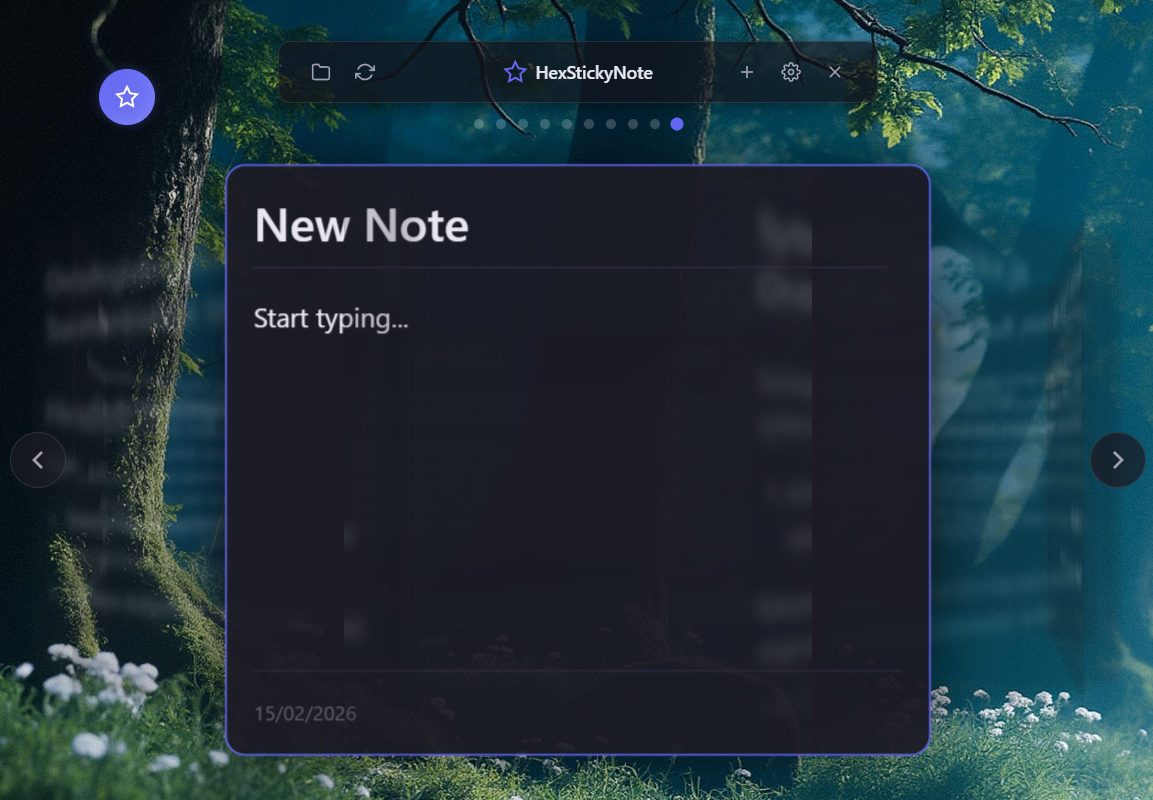
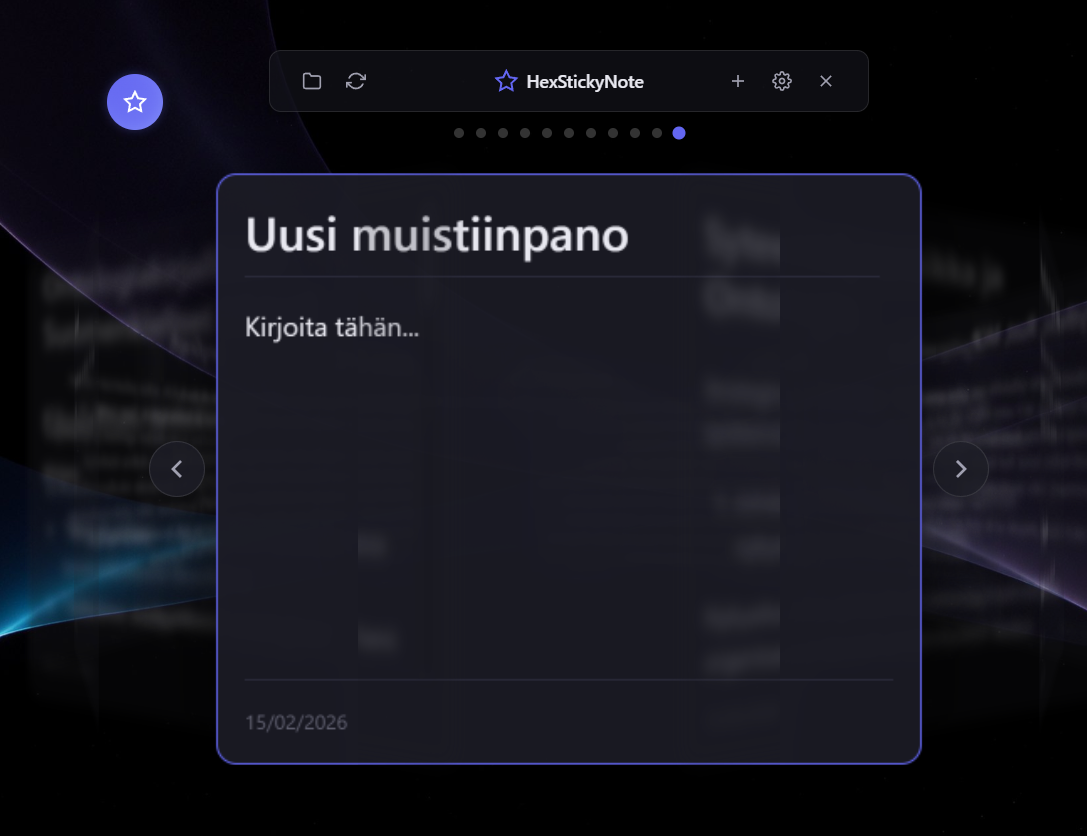
minor fixex

diff --git a/src/lib/stores/settingsStore.ts b/src/lib/stores/settingsStore.ts
@@ -24,6 +24,7 @@ export interface Provider {
 export interface AiStreamChunk {
   chunk: string;
   done: boolean;
+  gpu_info?: string;
 }
 
 interface SettingsState {
@@ -32,6 +33,7 @@ interface SettingsState {
   isLoading: boolean;
   isStreaming: boolean;
   error: string | null;
+  currentGpuInfo: string | null;
 }
 
 // ============================================================================
@@ -44,7 +46,8 @@ function createSettingsStore() {
     activeProviderId: null,
     isLoading: false,
     isStreaming: false,
-    error: null
+    error: null,
+    currentGpuInfo: null
   });
 
   let streamUnlisten: UnlistenFn | null = null;
@@ -144,11 +147,15 @@ function createSettingsStore() {
         streamUnlisten = null;
       }
 
-      update(s => ({ ...s, isStreaming: true, error: null }));
+      update(s => ({ ...s, isStreaming: true, error: null, currentGpuInfo: null }));
 
       try {
         // Set up event listener for streaming chunks
         streamUnlisten = await listen<AiStreamChunk>('ai-stream-chunk', (event) => {
+          if (event.payload.gpu_info) {
+            update(s => ({ ...s, currentGpuInfo: event.payload.gpu_info || null }));
+          }
+
           if (event.payload.done) {
             update(s => ({ ...s, isStreaming: false }));
             onDone();

diff --git a/src/lib/components/AiPromptBar.svelte b/src/lib/components/AiPromptBar.svelte
@@ -91,6 +91,16 @@
     </button>
   </div>
 
+  {#if isStreaming && $settingsStore.currentGpuInfo}
+    <div class="gpu-indicator">
+      <svg width="12" height="12" viewBox="0 0 24 24" fill="none" stroke="currentColor" stroke-width="2">
+        <rect x="2" y="2" width="20" height="20" rx="2" ry="2"/>
+        <path d="M6 12h12M12 6v12"/>
+      </svg>
+      <span>Using {$settingsStore.currentGpuInfo}</span>
+    </div>
+  {/if}
+
   {#if $settingsStore.error}
     <p class="prompt-error">{$settingsStore.error}</p>
   {/if}
@@ -181,5 +191,15 @@
     font-size: 0.75rem;
     color: #ef4444;
     margin: 0;
+  }
+
+  .gpu-indicator {
+    display: flex;
+    align-items: center;
+    gap: 0.375rem;
+    font-size: 0.7rem;
+    color: var(--accent-primary);
+    padding: 0 0.25rem;
+    opacity: 0.8;
   }
 </style>

diff --git a/src/lib/components/Settings.svelte b/src/lib/components/Settings.svelte
@@ -409,11 +409,9 @@
               class="styled-select"
             >
               <option value="cpu">None (CPU only)</option>
-              <option value="vulkan">Vulkan (Universal GPU)</option>
-              <option value="cuda">CUDA (NVIDIA only)</option>
-              <option value="rocm">ROCm (AMD only)</option>
+              <option value="vulkan">Enabled (GPU Acceleration)</option>
             </select>
-            <p class="config-hint">Requires a compatible GPU and drivers. Vulkan works on most modern hardware.</p>
+            <p class="config-hint">Requires a compatible GPU and drivers. Uses Vulkan for maximum compatibility.</p>
           </div>
         </div>
 

diff --git a/src/lib/components/Hud.svelte b/src/lib/components/Hud.svelte
@@ -26,7 +26,7 @@
   }
 
   async function handleAddCard() {
-    const card = await cardStore.createCard('# New Note\n\nStart typing...');
+    const card = await cardStore.createCard('# Uusi muistiinpano\n\nKirjoita tähän...');
     if (card) {
       cardStore.enterEditMode(card.id);
     }

diff --git a/src/lib/components/Card.svelte b/src/lib/components/Card.svelte
@@ -16,7 +16,7 @@
   // Props
   export let card: Card;
 
-  const DEFAULT_TEXT = '# New Note\n\nStart typing...';
+  const DEFAULT_TEXT = '# Uusi muistiinpano\n\nKirjoita tähän...';
 
   // Local state
   let editorContent = card.content;

diff --git a/src-tauri/src/card_manager.rs b/src-tauri/src/card_manager.rs
@@ -56,12 +56,18 @@ pub fn get_cards_directory() -> Result<PathBuf, String> {
     Ok(cards_dir)
 }
 
-/// Extract title from markdown content (first # heading)
+/// Extract title from markdown content (first # heading or first meaningful line)
 fn extract_title_from_content(content: &str) -> String {
+    // 1. Look for first h1 (# Title)
     for line in content.lines() {
         let trimmed = line.trim();
-        if trimmed.starts_with('#') {
-            // Remove leading # and whitespace
+        if trimmed.starts_with("# ") {
+            let title = trimmed.trim_start_matches("# ").trim();
+            if !title.is_empty() {
+                return title.to_string();
+            }
+        } else if trimmed.starts_with('#') {
+            // Handle #Title (no space)
             let title = trimmed.trim_start_matches('#').trim();
             if !title.is_empty() {
                 return title.to_string();
@@ -69,12 +75,21 @@ fn extract_title_from_content(content: &str) -> String {
         }
     }
 
-    // Fallback: use first non-empty line or "Untitled"
-    content
-        .lines()
-        .find(|l| !l.trim().is_empty())
-        .map(|l| l.trim().to_string())
-        .unwrap_or_else(|| "Untitled".to_string())
+    // 2. Fallback: use first non-empty line that doesn't look like an AI command or metadata
+    for line in content.lines() {
+        let trimmed = line.trim();
+        if !trimmed.is_empty() && !trimmed.starts_with("---") {
+            // Truncate long lines for title
+            let mut title = trimmed.to_string();
+            if title.len() > 50 {
+                title.truncate(50);
+                title.push_str("...");
+            }
+            return title;
+        }
+    }
+
+    "Muistiinpano".to_string()
 }
 
 /// Sanitize title for use as filename
@@ -246,7 +261,7 @@ fn load_card_from_file(path: &PathBuf) -> Result<Card, String> {
 }
 
 /// Save a single card to a markdown file
-fn save_card_to_file(card: &Card) -> Result<(), String> {
+fn save_card_to_file(card: &Card) -> Result<PathBuf, String> {
     let content = create_markdown_with_frontmatter(card)?;
 
     // Try to find existing file, or create new one based on content
@@ -262,7 +277,7 @@ fn save_card_to_file(card: &Card) -> Result<(), String> {
         .map_err(|e| format!("Failed to write card file: {}", e))?;
 
     log::debug!("Saved card {} to {:?}", card.id, file_path);
-    Ok(())
+    Ok(file_path)
 }
 
 /// Delete a card's markdown file
@@ -296,7 +311,7 @@ pub fn create_card(content: String) -> Result<Card, String> {
     cards.push(card.clone());
 
     // Save to markdown file
-    save_card_to_file(&card)?;
+    let _ = save_card_to_file(&card)?;
 
     Ok(card)
 }
@@ -321,16 +336,29 @@ pub fn update_card(id: &str, content: Option<String>) -> Result<Card, String> {
         existing.updated_at = chrono::Utc::now().timestamp();
         let updated = existing.clone();
 
-        // Save to markdown file (may get new filename if title changed)
-        save_card_to_file(&updated)?;
+        // Save to markdown file
+        // Note: save_card_to_file will find the OLD path if it exists
+        // so we need to handle the rename manually if the title changed
+        let current_path = if let Some(ref path) = old_path {
+            // It exists, let's write to it first
+            let file_content = create_markdown_with_frontmatter(&updated)?;
+            fs::write(path, file_content).map_err(|e| e.to_string())?;
+            path.clone()
+        } else {
+            save_card_to_file(&updated)?
+        };
 
-        // If filename changed (title changed), delete old file
+        // If title changed, rename the file
         if let Some(old_path) = old_path {
-            if let Ok(new_path) = get_card_file_path(id) {
-                if old_path != new_path && old_path.exists() {
-                    let _ = fs::remove_file(&old_path);
-                    log::debug!("Renamed card file from {:?} to {:?}", old_path, new_path);
-                }
+            let cards_dir = get_cards_directory()?;
+            let new_title = extract_title_from_content(&updated.content);
+            let sanitized = sanitize_filename(&new_title);
+            let new_filename = get_unique_filename(&cards_dir, &sanitized);
+            let new_path = cards_dir.join(new_filename);
+
+            if old_path != new_path {
+                fs::rename(&old_path, &new_path).map_err(|e| format!("Failed to rename file: {}", e))?;
+                log::debug!("Renamed card file from {:?} to {:?}", old_path, new_path);
             }
         }
 

diff --git a/src-tauri/src/ai_manager.rs b/src-tauri/src/ai_manager.rs
@@ -39,6 +39,7 @@ pub enum AiError {
 pub struct AiStreamChunk {
     pub chunk: String,
     pub done: bool,
+    pub gpu_info: Option<String>,
 }
 
 #[derive(Debug, Clone, Serialize, Deserialize)]
@@ -244,6 +245,7 @@ Only output long text if you are answering a general question without modifying 
                         app.emit("ai-stream-chunk", AiStreamChunk {
                             chunk: String::new(),
                             done: true,
+                            gpu_info: None,
                         }).ok();
                         return Ok(());
                     }
@@ -256,6 +258,7 @@ Only output long text if you are answering a general question without modifying 
                             app.emit("ai-stream-chunk", AiStreamChunk {
                                 chunk: content.to_string(),
                                 done: false,
+                                gpu_info: None,
                             }).ok();
                         }
 
@@ -359,6 +362,7 @@ Only output long text if you are answering a general question without modifying 
                                     app.emit("ai-stream-chunk", AiStreamChunk {
                                         chunk: text.to_string(),
                                         done: false,
+                                        gpu_info: None,
                                     }).ok();
                                 }
                             }
@@ -366,6 +370,7 @@ Only output long text if you are answering a general question without modifying 
                                 app.emit("ai-stream-chunk", AiStreamChunk {
                                     chunk: String::new(),
                                     done: true,
+                                    gpu_info: None,
                                 }).ok();
                                 return Ok(());
                             }
@@ -431,6 +436,7 @@ Only output long text if you are answering a general question without modifying 
                             app.emit("ai-stream-chunk", AiStreamChunk {
                                 chunk: text.to_string(),
                                 done: false,
+                                gpu_info: None,
                             }).ok();
                         }
 
@@ -438,6 +444,7 @@ Only output long text if you are answering a general question without modifying 
                             app.emit("ai-stream-chunk", AiStreamChunk {
                                 chunk: String::new(),
                                 done: true,
+                                gpu_info: None,
                             }).ok();
                             return Ok(());
                         }

diff --git a/src-tauri/src/local_inference.rs b/src-tauri/src/local_inference.rs
@@ -108,7 +108,7 @@ pub async fn run_local_inference(
 
     // Get GPU setting
     let gpu_type = settings.map(|s| s.get_gpu_type()).unwrap_or(crate::keyring_store::GpuType::Cpu);
-    let n_gpu_layers = if gpu_type != crate::keyring_store::GpuType::Cpu {
+    let mut n_gpu_layers = if gpu_type != crate::keyring_store::GpuType::Cpu {
         log::info!("GPU acceleration enabled ({:?}), offloading 32 layers", gpu_type);
         32
     } else {
@@ -116,10 +116,30 @@ pub async fn run_local_inference(
     };
 
     // Load model
-    let model_params = LlamaModelParams::default()
+    let mut model_params = LlamaModelParams::default()
         .with_n_gpu_layers(n_gpu_layers);
-    let model = LlamaModel::load_from_file(backend, model_path, &model_params)
-        .map_err(|e| LocalInferenceError::ModelLoadError(e.to_string()))?;
+    
+    let mut current_n_gpu_layers = n_gpu_layers;
+    let model = match LlamaModel::load_from_file(backend, &model_path, &model_params) {
+        Ok(m) => m,
+        Err(e) => {
+            if n_gpu_layers > 0 {
+                log::warn!("Failed to load model with GPU ({} layers): {}. Falling back to CPU.", n_gpu_layers, e);
+                current_n_gpu_layers = 0;
+                model_params = LlamaModelParams::default().with_n_gpu_layers(0);
+                LlamaModel::load_from_file(backend, &model_path, &model_params)
+                    .map_err(|e2| LocalInferenceError::ModelLoadError(format!("CPU fallback also failed: {}", e2)))?
+            } else {
+                return Err(LocalInferenceError::ModelLoadError(e.to_string()));
+            }
+        }
+    };
+
+    let actual_device = if current_n_gpu_layers > 0 {
+        "GPU".to_string()
+    } else {
+        "CPU".to_string()
+    };
 
     // Create context with conservative parameters for CPU inference
     let ctx_params = LlamaContextParams::default()
@@ -287,6 +307,7 @@ pub async fn run_local_inference(
                         AiStreamChunk {
                             chunk: text.clone(),
                             done: false,
+                            gpu_info: Some(actual_device.clone()),
                         },
                     )
                     .ok();
@@ -323,6 +344,7 @@ pub async fn run_local_inference(
         AiStreamChunk {
             chunk: String::new(),
             done: true,
+            gpu_info: Some(actual_device),
         },
     )
     .ok();

diff --git a/README.md b/README.md
@@ -3,7 +3,8 @@
 A modern desktop note-taking application with AI integration and a unique 3D carousel interface. Create, edit, and enhance your notes using powerful AI models – all while keeping your data and API keys secure on your local machine.
 
 ![HexStickyNote Screenshot](docs/image.png)
-
+Settings:
+![HexStickyNote Settings](docs/image2.png)
 
 
 ## Features
